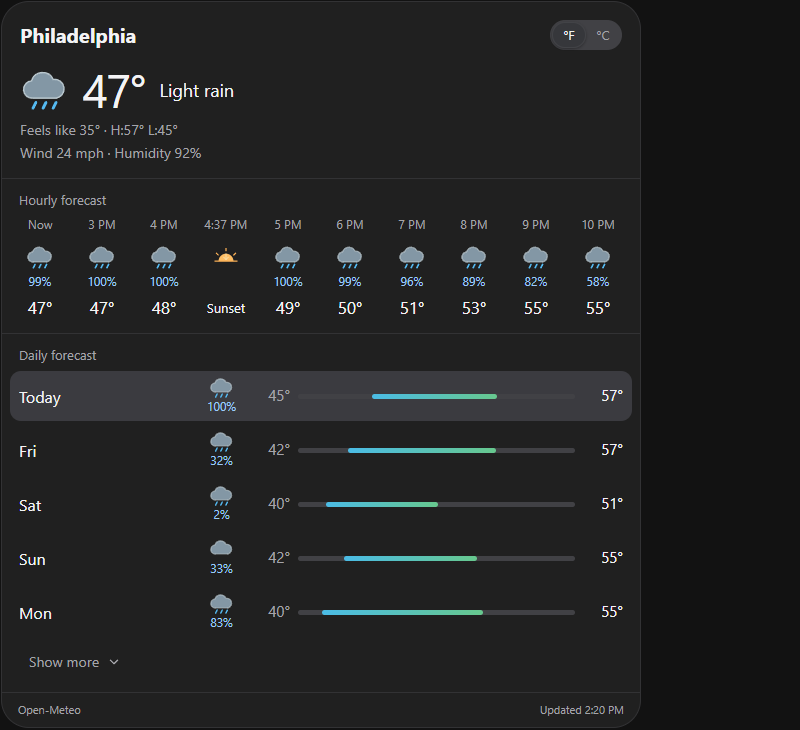
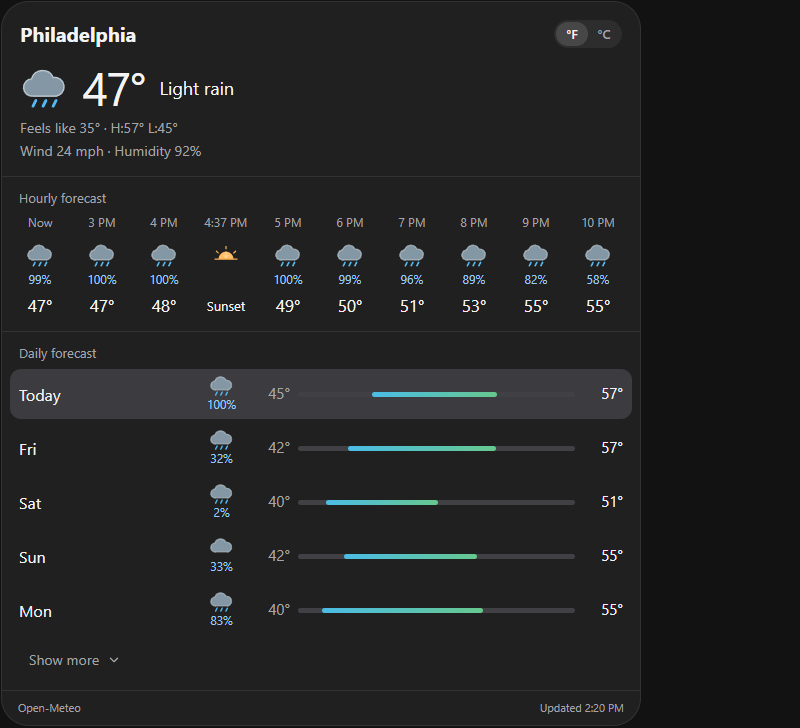
fix: softer desktop unit switch that blends with the card

diff --git a/skills/weather-cards/scripts/card.html b/skills/weather-cards/scripts/card.html
@@ -5,7 +5,7 @@
 @media(prefers-color-scheme:dark){:root:not([data-theme=light]){--wc-bg:#131313;--wc-card:#202020;--wc-fg:#f4f4f5;--wc-muted:#a4a4aa;--wc-line:#323234;--wc-selected:#3b3b40;--wc-track:#414145;--wc-blue:#9dcafa;--wc-button:#343438}}
 :root[data-theme=dark]{--wc-bg:#131313;--wc-card:#202020;--wc-fg:#f4f4f5;--wc-muted:#a4a4aa;--wc-line:#323234;--wc-selected:#3b3b40;--wc-track:#414145;--wc-blue:#9dcafa;--wc-button:#343438}
 *{box-sizing:border-box}html,body{background:transparent}body{margin:0;padding:1px;color:var(--foreground,var(--wc-fg));font:15px/1.45 -apple-system,BlinkMacSystemFont,"Segoe UI",sans-serif}.card{max-width:640px;min-width:0;margin:0;border:1px solid var(--border,var(--wc-line));border-radius:28px;overflow:hidden;background:var(--card,var(--wc-card));color:var(--card-foreground,var(--wc-fg))}.current{padding:18px 18px 14px}header{display:flex;align-items:center;gap:12px;justify-content:space-between;margin-bottom:12px}h1{font-size:20px;line-height:1.2;margin:0;font-weight:650;overflow-wrap:anywhere;min-width:0}.units{display:flex;gap:3px;flex-shrink:0}button{font:inherit;color:inherit;border:0;cursor:pointer}button:focus-visible,a:focus-visible,.hours:focus-visible{outline:2px solid #38bdf8;outline-offset:2px}.units button{width:42px;height:40px;border-radius:24px;background:transparent;color:var(--muted-foreground,var(--wc-muted))}.units [aria-pressed=true]{background:var(--wc-button);color:var(--wc-fg)}.hero{display:flex;gap:14px;align-items:center}.hero .icon{width:49px;height:49px}.temp{font-size:46px;line-height:1.2;letter-spacing:-1.5px;font-weight:450}.condition{font-size:18px}.detail{color:var(--muted-foreground,var(--wc-muted));margin-top:3px;font-size:14px}.section{border-top:1px solid var(--border,var(--wc-line));padding:12px 8px 14px}.label{font-size:13px;font-weight:400;color:var(--muted-foreground,var(--wc-muted));margin:0 9px 6px}.hours{display:flex;gap:2px;overflow-x:auto;overscroll-behavior-x:contain;padding:0 1px 5px;scrollbar-width:thin;scrollbar-color:var(--wc-track) transparent;scroll-snap-type:x proximity}.hour{flex:0 0 60px;text-align:center;scroll-snap-align:start}.hour-time{font-size:12px;color:var(--muted-foreground,var(--wc-muted));white-space:nowrap;height:25px}.icon{width:28px;height:28px;display:inline-block;vertical-align:middle}.hour .icon{margin:2px 0}.pop{color:var(--wc-blue);font-size:12px;min-height:18px}.hour-temp{font-size:17px;margin-top:4px}.hour.sun .hour-temp{font-size:13px;margin-top:8px}.day{display:grid;grid-template-columns:minmax(45px,1fr) 43px 39px minmax(55px,1.6fr) 40px;align-items:center;gap:8px;min-height:50px;padding:3px 9px;border-radius:11px}.day.selected{background:var(--wc-selected)}button.day{width:100%;border:0;font:inherit;color:inherit;text-align:left;background:transparent;cursor:pointer}button.day:hover:not(.selected){background:color-mix(in srgb,var(--wc-selected) 55%,transparent)}button.day:focus-visible{outline:2px solid var(--wc-blue,#5ab8f0);outline-offset:-2px}.day-name{font-size:16px}.daily-weather{text-align:center;line-height:1.1}.daily-weather .icon{width:25px;height:25px}.low{text-align:right;color:var(--muted-foreground,var(--wc-muted))}.high{text-align:right}.track{height:5px;border-radius:10px;background:var(--wc-track);position:relative;overflow:hidden}.range{position:absolute;top:0;height:100%;min-width:2px;border-radius:10px;background:linear-gradient(90deg,#4bbce6,#67c88e)}.more{background:transparent;color:var(--muted-foreground,var(--wc-muted));margin:9px 0 0 7px;padding:6px 12px;border:0;border-radius:999px;font:inherit;font-size:14px;display:inline-flex;align-items:center;gap:8px;line-height:20px;cursor:pointer;transition:background-color .15s ease,color .15s ease}.more:hover,.more:focus-visible{background:var(--wc-selected);color:var(--foreground,var(--wc-fg))}.more:focus-visible{outline:2px solid var(--wc-blue);outline-offset:1px}.more svg{width:14px;height:14px;display:block;flex:none}.more[aria-expanded=true] svg{transform:rotate(180deg)}.footer{border-top:1px solid var(--border,var(--wc-line));padding:12px 16px;color:var(--muted-foreground,var(--wc-muted));font-size:11px}.footer-line{display:flex;gap:10px;justify-content:space-between;flex-wrap:wrap}.footer a{color:inherit;text-decoration:none}.footer a:hover{text-decoration:underline}.note{margin-top:5px;font-size:10px}.provenance{margin-top:5px}.provenance summary{cursor:pointer;font-size:10px}.footer{padding-top:9px;padding-bottom:9px}.error{padding:20px;color:var(--wc-fg)}[hidden]{display:none!important}@media(max-width:390px){.current{padding:16px 16px 13px}.day{gap:6px;padding:3px 8px;grid-template-columns:minmax(43px,1fr) 39px 33px minmax(48px,1.5fr) 34px}.condition{font-size:16px}.temp{font-size:44px}.hero{gap:11px}.footer{padding:12px 14px}}
-.hours-wrap{position:relative}.hours{touch-action:pan-x pan-y;scrollbar-width:none;-ms-overflow-style:none;padding-bottom:0}.hours::-webkit-scrollbar{display:none}.hour-nav{position:absolute;top:50%;z-index:2;width:30px;height:30px;margin-top:-15px;border-radius:50%;display:grid;place-items:center;background:color-mix(in srgb,var(--card,var(--wc-card)) 82%,var(--foreground,var(--wc-fg)) 18%);color:var(--foreground,var(--wc-fg));box-shadow:0 2px 10px rgba(0,0,0,.22)}.hour-nav svg{width:15px;height:15px;fill:none;stroke:currentColor;stroke-width:1.8;stroke-linecap:round;stroke-linejoin:round}.hour-nav.prev{left:2px}.hour-nav.next{right:2px}.hour-nav{opacity:0;pointer-events:none;transition:opacity .15s ease}.hours-wrap:hover .hour-nav,.hours-wrap:focus-within .hour-nav{opacity:1;pointer-events:auto}@media(hover:none){.hour-nav{display:none!important}.hours{scroll-snap-type:x proximity;-webkit-overflow-scrolling:touch;overscroll-behavior-x:contain}.hour{scroll-snap-align:start}}.hour-nav[hidden]{display:none}#days{display:flex;flex-direction:column;gap:4px}@media(hover:hover) and (pointer:fine){.units{gap:0;padding:2px;border-radius:999px;background:var(--wc-track)}.units button{width:34px;height:26px;border-radius:999px;font-size:13px;transition:background-color .15s ease,color .15s ease,box-shadow .15s ease}.units [aria-pressed=true]{background:var(--wc-button);color:var(--foreground,var(--wc-fg));box-shadow:0 1px 3px rgba(0,0,0,.35),inset 0 0 0 1px rgba(255,255,255,.06)}.units button:not([aria-pressed=true]):hover{color:var(--foreground,var(--wc-fg))}}</style></head><body><main class="card" aria-label="Weather forecast"><section class="current"><header><h1 id="city">__TITLE__</h1><div class="units" role="group" aria-label="Temperature units"><button id="fahrenheit" aria-pressed="true" aria-label="Fahrenheit">°F</button><button id="celsius" aria-pressed="false" aria-label="Celsius">°C</button></div></header><div class="hero" id="hero"></div><div class="detail" id="feels"></div><div class="detail" id="wind"></div></section><section class="section"><h2 class="label" id="hours-label">Hourly forecast</h2><div class="hours-wrap"><button class="hour-nav prev" id="hours-prev" aria-label="Earlier hours" hidden><svg viewBox="0 0 16 16" aria-hidden="true"><path d="m10 3-5 5 5 5"/></svg></button><div class="hours" id="hours" tabindex="0" aria-label="Hourly forecast"></div><button class="hour-nav next" id="hours-next" aria-label="Later hours"><svg viewBox="0 0 16 16" aria-hidden="true"><path d="m6 3 5 5-5 5"/></svg></button></div></section><section class="section"><h2 class="label">Daily forecast</h2><div id="days"></div><button class="more" id="more" aria-expanded="false" aria-controls="days">Show more <span aria-hidden="true">⌄</span></button></section><footer class="footer"><div class="footer-line"><a href="https://open-meteo.com/" target="_blank" rel="noopener noreferrer">Open-Meteo</a><span id="valid"></span></div></footer></main>
+.hours-wrap{position:relative}.hours{touch-action:pan-x pan-y;scrollbar-width:none;-ms-overflow-style:none;padding-bottom:0}.hours::-webkit-scrollbar{display:none}.hour-nav{position:absolute;top:50%;z-index:2;width:30px;height:30px;margin-top:-15px;border-radius:50%;display:grid;place-items:center;background:color-mix(in srgb,var(--card,var(--wc-card)) 82%,var(--foreground,var(--wc-fg)) 18%);color:var(--foreground,var(--wc-fg));box-shadow:0 2px 10px rgba(0,0,0,.22)}.hour-nav svg{width:15px;height:15px;fill:none;stroke:currentColor;stroke-width:1.8;stroke-linecap:round;stroke-linejoin:round}.hour-nav.prev{left:2px}.hour-nav.next{right:2px}.hour-nav{opacity:0;pointer-events:none;transition:opacity .15s ease}.hours-wrap:hover .hour-nav,.hours-wrap:focus-within .hour-nav{opacity:1;pointer-events:auto}@media(hover:none){.hour-nav{display:none!important}.hours{scroll-snap-type:x proximity;-webkit-overflow-scrolling:touch;overscroll-behavior-x:contain}.hour{scroll-snap-align:start}}.hour-nav[hidden]{display:none}#days{display:flex;flex-direction:column;gap:4px}@media(hover:hover) and (pointer:fine){.units{gap:0;padding:2px;border-radius:999px;background:color-mix(in srgb,var(--foreground,var(--wc-fg)) 6%,transparent)}.units button{width:32px;height:24px;font-weight:500;border-radius:999px;font-size:13px;transition:background-color .15s ease,color .15s ease,box-shadow .15s ease}.units [aria-pressed=true]{background:color-mix(in srgb,var(--foreground,var(--wc-fg)) 13%,transparent);color:var(--foreground,var(--wc-fg));box-shadow:none}.units button:not([aria-pressed=true]):hover{color:var(--foreground,var(--wc-fg))}}</style></head><body><main class="card" aria-label="Weather forecast"><section class="current"><header><h1 id="city">__TITLE__</h1><div class="units" role="group" aria-label="Temperature units"><button id="fahrenheit" aria-pressed="true" aria-label="Fahrenheit">°F</button><button id="celsius" aria-pressed="false" aria-label="Celsius">°C</button></div></header><div class="hero" id="hero"></div><div class="detail" id="feels"></div><div class="detail" id="wind"></div></section><section class="section"><h2 class="label" id="hours-label">Hourly forecast</h2><div class="hours-wrap"><button class="hour-nav prev" id="hours-prev" aria-label="Earlier hours" hidden><svg viewBox="0 0 16 16" aria-hidden="true"><path d="m10 3-5 5 5 5"/></svg></button><div class="hours" id="hours" tabindex="0" aria-label="Hourly forecast"></div><button class="hour-nav next" id="hours-next" aria-label="Later hours"><svg viewBox="0 0 16 16" aria-hidden="true"><path d="m6 3 5 5-5 5"/></svg></button></div></section><section class="section"><h2 class="label">Daily forecast</h2><div id="days"></div><button class="more" id="more" aria-expanded="false" aria-controls="days">Show more <span aria-hidden="true">⌄</span></button></section><footer class="footer"><div class="footer-line"><a href="https://open-meteo.com/" target="_blank" rel="noopener noreferrer">Open-Meteo</a><span id="valid"></span></div></footer></main>
 <script id="weather-data" type="application/json">__DATA__</script>
 <script>
 'use strict';
